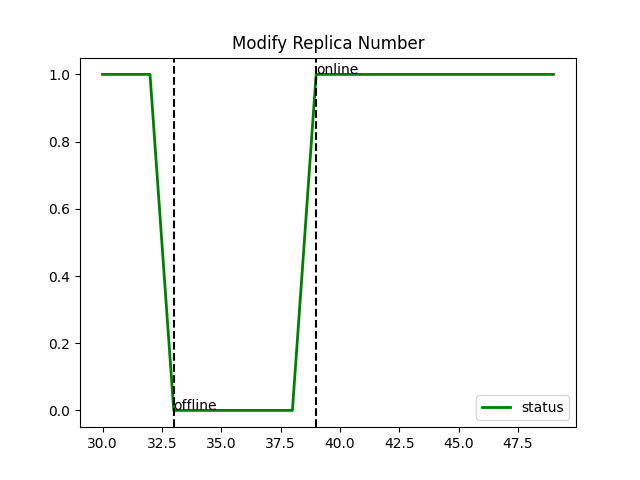
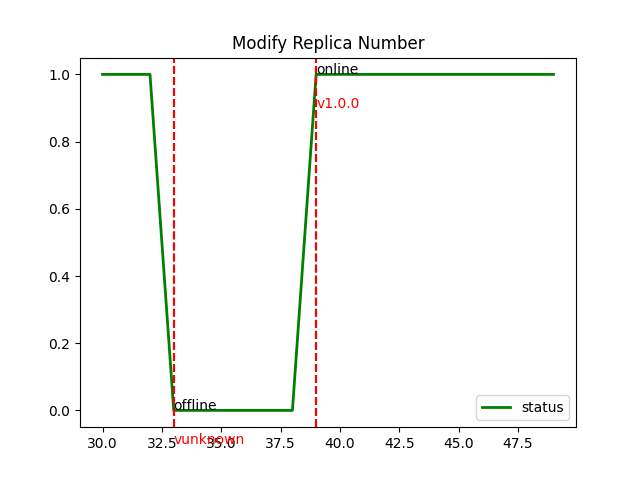
reset data version

Changed region(s): [[0.4688, 0.1875, 0.5625, 0.25], [0.2812, 0.9062, 0.375, 0.9375]]

diff --git a/project-2/code/visualization_code/plot.py b/project-2/code/visualization_code/plot.py
@@ -32,8 +32,15 @@ def draw(data, title):
             plt.axvline(x=i, color='black', ls='--')
             print(
                 f"Status change from {df.loc[i-1, 'status']} to {df.loc[i, 'status']} at timestamp {df.loc[i, 'time']}")
-            plt.text(i, df.loc[i, 'status'],
-                     f"{'online' if df.loc[i, 'status'] == 1 else 'offline'}")
+            plt.text(
+                i, df.loc[i, 'status'], f"{'online' if df.loc[i, 'status'] == 1 else 'offline'}")
+
+        if df.loc[i, 'version'] != df.loc[i-1, 'version']:
+            plt.axvline(x=i, color='red', ls='--')
+            print(
+                f"Version change from {df.loc[i-1, 'version']} to {df.loc[i, 'version']} at timestamp {df.loc[i, 'time']}")
+            plt.text(i, df.loc[i, 'status'] - 0.1,
+                     f"v{df.loc[i, 'version']}", color='red')
 
     plt.title(title)
     plt.savefig('figures/{}.png'.format(data.split('/')[-1].split('.')[0]))
